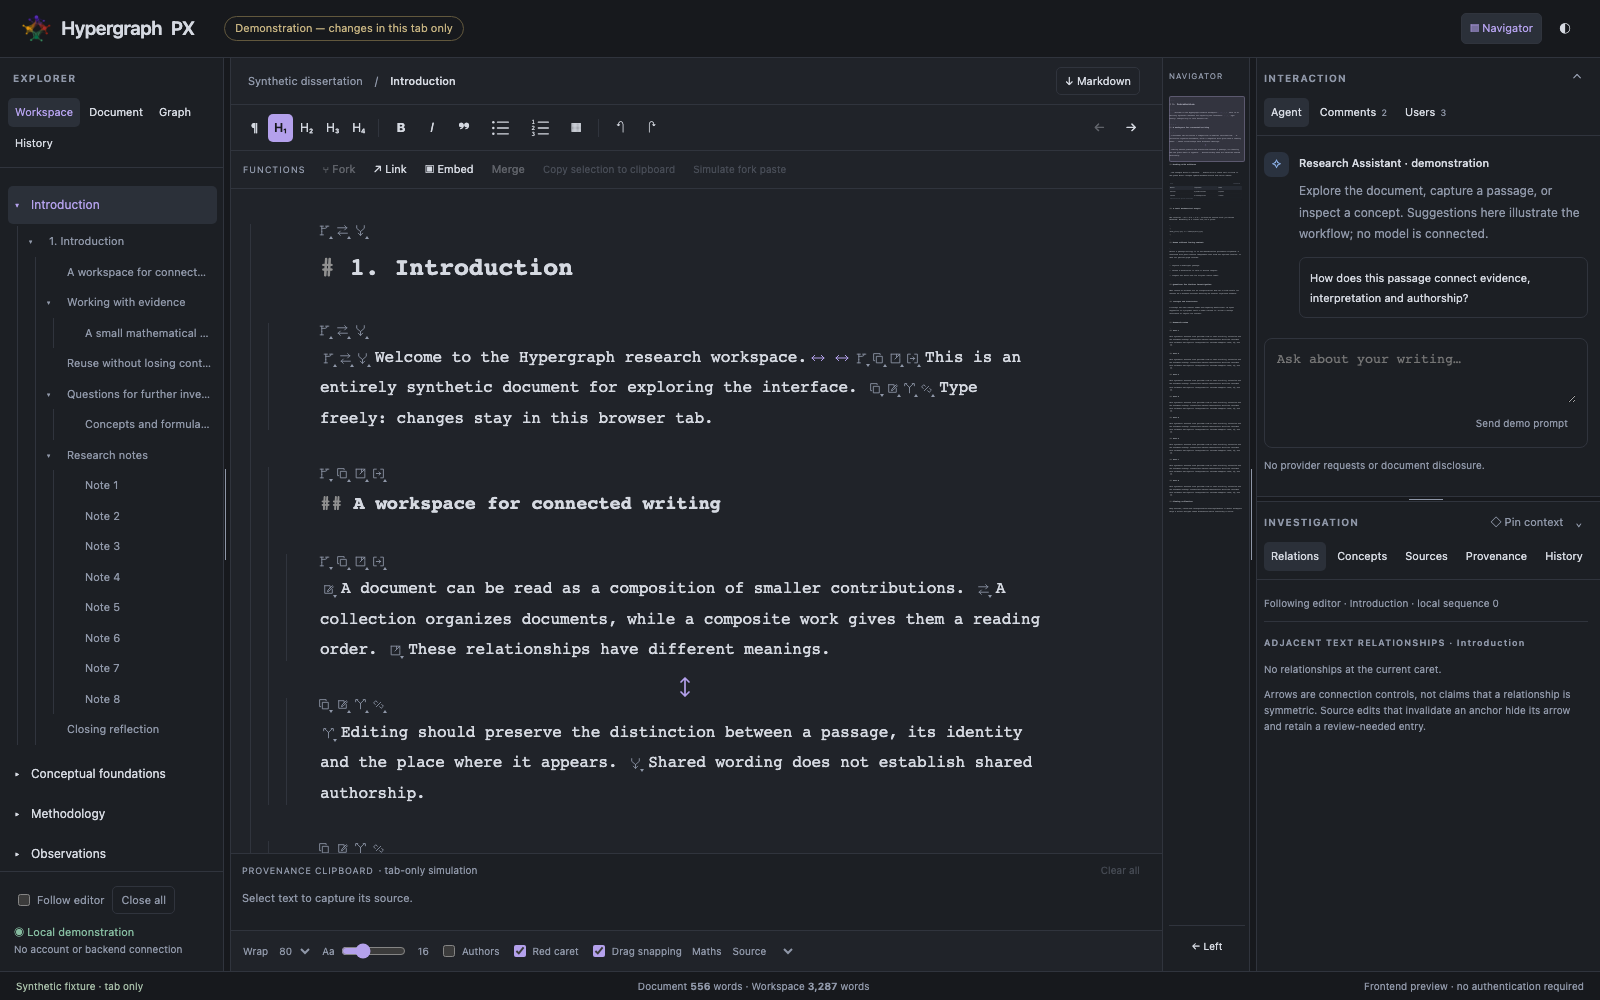
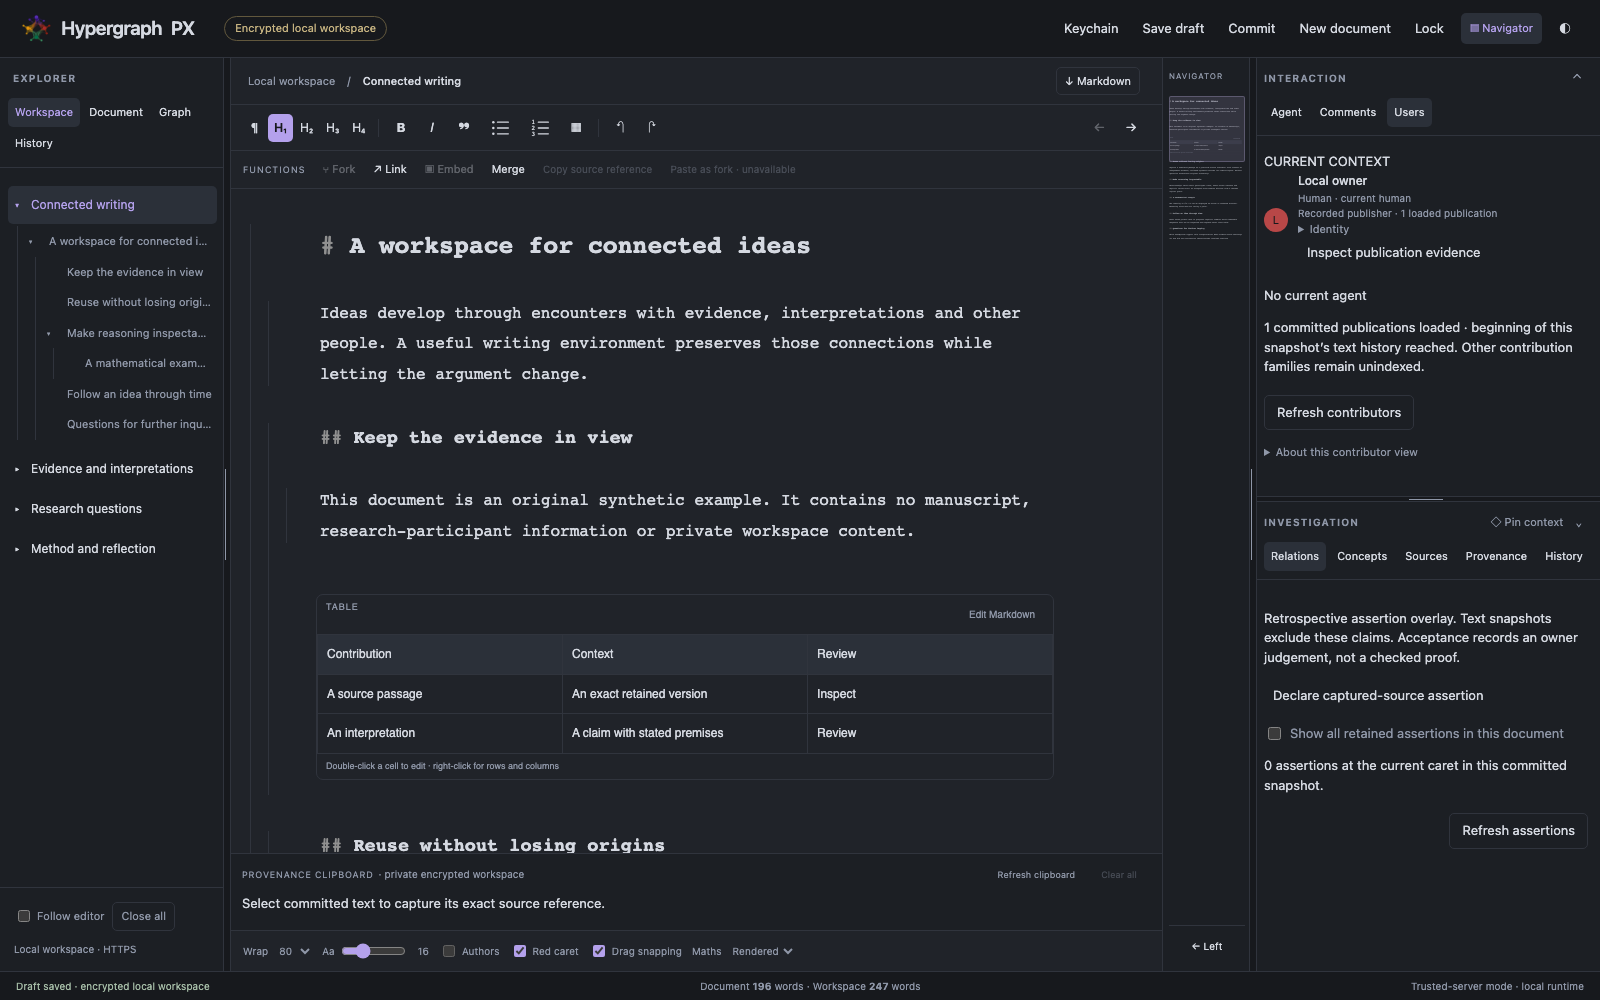
Screenshot update.

diff --git a/README.md b/README.md
@@ -9,9 +9,9 @@ HPX explores a different approach: treating writing as an evolving network of id
 
 Underlying the project is a commitment to **intellectual autonomy, transparency, privacy, and collaboration**. It is a tool that helps people think together without obscuring who contributed what, including when collaborating with AI. It begins as a personal writing environment but is ultimately intended to become a secure, federated, collaborative commons for writing and inquiry.
 
-![Current synthetic desktop frontend preview](docs/assets/desktop-preview.png)
+![Latest Hypergraph PX desktop runtime with synthetic documents](docs/assets/desktop-preview.png)
 
-*Current local frontend preview, captured on 2026-10-26 with synthetic content. This synthetic preview image is not evidence of live Rust integration.*
+*Latest local HTTPS runtime, captured on 2026-10-26 using isolated synthetic documents. Real-document acceptance remains pending.*
 
 ### How it's being built
 
